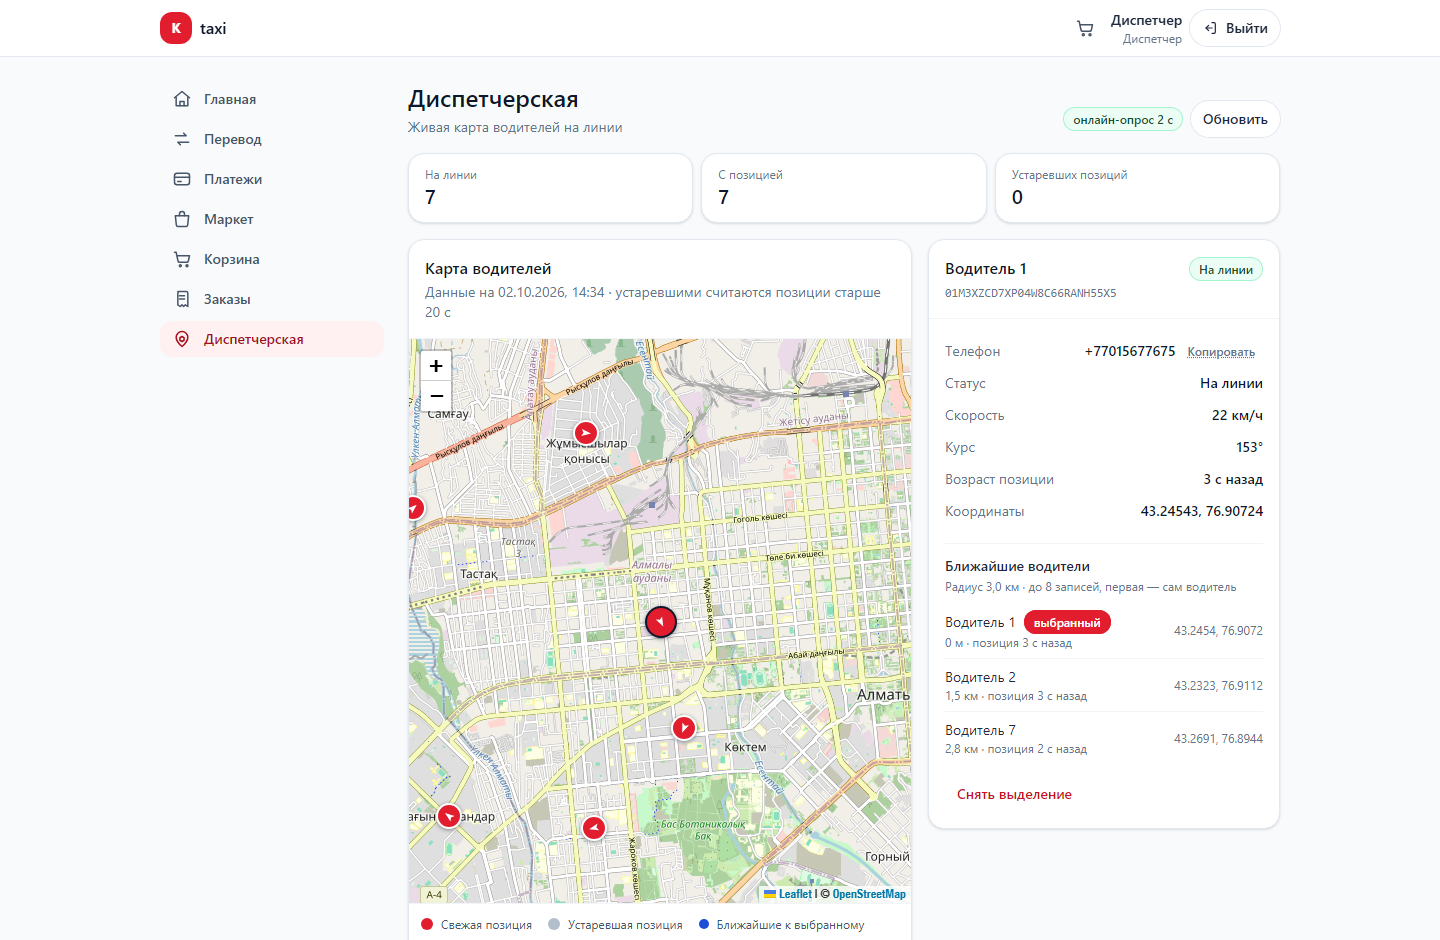
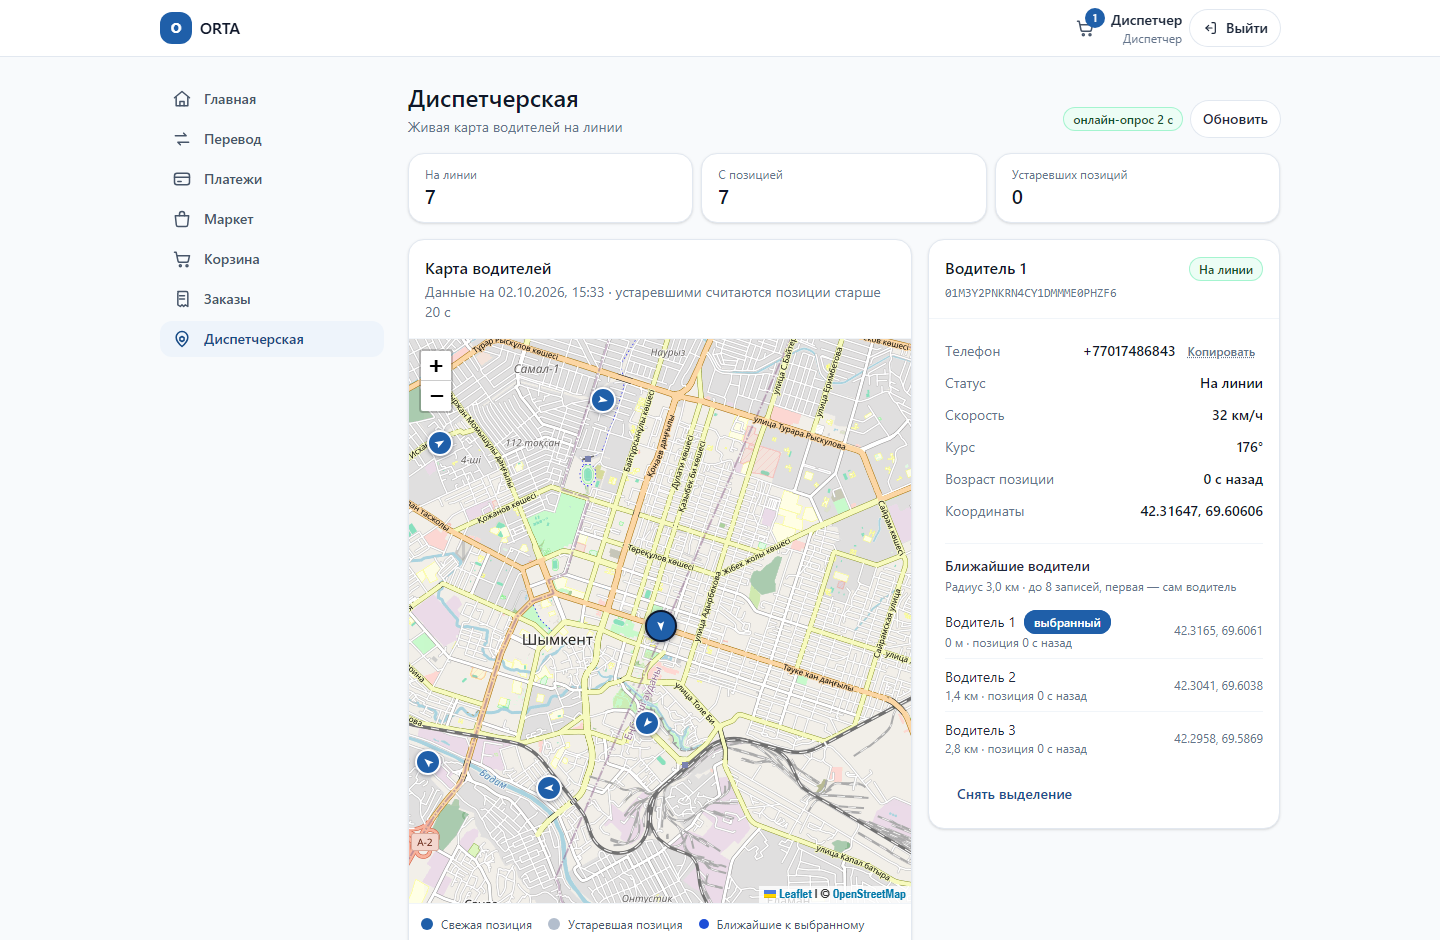
Один акцент и один пилотный город
Продукт должен выглядеть цельным, а не собранным из двух разных приложений:

- веб-палитра сведена к ORTA Blue #1F5FA9 (была малиновая #E11D2E): теперь цвет
  совпадает с темой Android-клиента, а красный остался только семантическим —
  ошибки, отмены, статусы FAILED/BLOCKED
- маркеры «ближайшие к выбранному» на карте диспетчера стали бирюзовыми (TaxiTeal):
  раньше они были почти того же синего, что и свежие, и на подложке путались
- пилотный город — Шымкент, как в описании продукта: центр карты консоли 42.3155,
  69.5867, симулятор парка возит 7 машин по Шымкенту, проверочная точка сценария —
  42.3600, 69.6500. Маркетплейс остался алматинским: это отдельная вертикаль
- в скриптах восстановлен BOM: правки через редактор его снимали, и PowerShell 5.1
  перестал разбирать кириллицу — симулятор падал с ошибкой парсинга

Проверено: web — сборка и 21 тест зелёные; e2e-dispatch — exit 0, событие driver.online
доходит до диспетчерской за 487 мс (критерий Ф1 — меньше секунды); карта переснята на
живом стеке, docs/img/dispatch-live-map.png.

diff --git a/web/src/pages/DispatchPage.tsx b/web/src/pages/DispatchPage.tsx
@@ -42,16 +42,16 @@ import {
 const PAGE_TITLE = 'Диспетчерская';
 const PAGE_SUBTITLE = 'Живая карта водителей на линии';
 
-/** Almaty, Abay avenue area — the demo city centre. */
-const ALMATY_CENTER: L.LatLngTuple = [43.2389, 76.8897];
+/** Шымкент, центр города — пилотный город ORTA (см. docs/orta.md). */
+const CITY_CENTER: L.LatLngTuple = [42.3155, 69.5867];
 const DEFAULT_ZOOM = 13;
 
 const OSM_TILE_URL = 'https://{s}.tile.openstreetmap.org/{z}/{x}/{y}.png';
 const OSM_ATTRIBUTION = '&copy; <a href="https://www.openstreetmap.org/copyright">OpenStreetMap</a>';
 
-const FRESH_COLOR = '#e11d2e'; // brand-500
+const FRESH_COLOR = '#1f5fa9'; // brand-500: тот же синий, что в клиенте ORTA
 const STALE_COLOR = '#94a3b8'; // ink-400
-const CANDIDATE_COLOR = '#2563eb'; // info blue
+const CANDIDATE_COLOR = '#0e7c7b'; // TaxiTeal: «ближайшие к выбранному» не путать со свежими (brand blue)
 const SELECTED_RING = '#0f172a'; // ink-900
 const MARKER_SIZE = 26;
 const CANDIDATE_SIZE = 14;
@@ -147,7 +147,7 @@ function DriverMap({ drivers, candidates, selectedId, onSelect }: DriverMapProps
       return;
     }
     const map = L.map(container, {
-      center: ALMATY_CENTER,
+      center: CITY_CENTER,
       zoom: DEFAULT_ZOOM,
       zoomControl: true,
       attributionControl: true,

diff --git a/web/src/index.css b/web/src/index.css
@@ -1,22 +1,22 @@
 @import 'tailwindcss';
 
 /**
- * Design tokens for the fintech UI: a light surface, one crimson accent close
- * to Taxi branding, generous rounding and a small neutral ramp.
+ * Design tokens for the ORTA UI: a light surface, one brand blue that matches the
+ * Android client (`Theme.kt`, #1F5FA9), generous rounding and a small neutral ramp.
  */
 @theme {
   --font-sans: 'Inter', 'Segoe UI', system-ui, -apple-system, sans-serif;
 
-  --color-brand-50: #fff1f2;
-  --color-brand-100: #ffe1e3;
-  --color-brand-200: #ffc7cc;
-  --color-brand-300: #ff9ba4;
-  --color-brand-400: #fb6572;
-  --color-brand-500: #e11d2e;
-  --color-brand-600: #c8121f;
-  --color-brand-700: #a70f1a;
-  --color-brand-800: #88121a;
-  --color-brand-900: #6f141a;
+  --color-brand-50: #eef4fb;
+  --color-brand-100: #d9e7f6;
+  --color-brand-200: #b8d1ee;
+  --color-brand-300: #8cb4e2;
+  --color-brand-400: #4d8ac9;
+  --color-brand-500: #1f5fa9;
+  --color-brand-600: #1a4f8d;
+  --color-brand-700: #164a85;
+  --color-brand-800: #123a68;
+  --color-brand-900: #0f2f53;
 
   --color-ink-50: #f8fafc;
   --color-ink-100: #f1f5f9;

diff --git a/web/src/pages/DispatchPage.test.tsx b/web/src/pages/DispatchPage.test.tsx
@@ -195,11 +195,11 @@ describe('dispatcher console', () => {
     expect(await screen.findByTestId('dispatch-map')).toBeInTheDocument();
     await waitFor(() => expect(container.querySelectorAll('.taxi-driver-marker')).toHaveLength(2));
 
-    // Fresh and stale drivers are visually different: brand red vs grey.
+    // Fresh and stale drivers are visually different: brand blue vs grey.
     const markers = Array.from(container.querySelectorAll<HTMLElement>('.taxi-driver-marker'));
     const bodies = markers.map((marker) => marker.innerHTML);
     expect(new Set(bodies).size).toBe(2);
-    expect(bodies.some((html) => html.includes('#e11d2e'))).toBe(true);
+    expect(bodies.some((html) => html.includes('#1f5fa9'))).toBe(true);
     expect(bodies.some((html) => html.includes('#94a3b8'))).toBe(true);
 
     const freshMarker = markers.find((marker) => marker.getAttribute('title') === 'Айбек Сериков');

diff --git a/README.md b/README.md
@@ -54,7 +54,7 @@ Cargo/Home/Services/Build/Delivery/Business помечены бейджем «С
 | PostGIS и базы `taxi_trip`, `taxi_driver`, `taxi_dispatch` | `infra/postgres/init/01-databases.sql` |
 | `driver-service`: профиль водителя, документы со сроком, выход на линию | `services/driver-service` |
 | `dispatch-service`: приём геопозиций, Redis GEO, поиск кандидатов, живая карта (`/dispatch`) | `services/dispatch-service` |
-| Симулятор парка: 7 машин едут по Алматы и присылают позиции | `scripts/simulate-fleet.ps1` |
+| Симулятор парка: 7 машин едут по Шымкенту и присылают позиции | `scripts/simulate-fleet.ps1` |
 | Сквозные сценарии: выход на линию (33 проверки) и диспетчерская (40 проверок) | `scripts/e2e-driver-duty.ps1`, `scripts/e2e-dispatch.ps1` |
 
 ### Живая карта диспетчера
@@ -107,7 +107,7 @@ cd web; pnpm install; pnpm dev                  # http://localhost:5173/dispatch
 .\scripts\smoke-test.ps1        # платформа: счёт, леджер, Kafka, RFC 7807
 .\scripts\e2e-driver-duty.ps1   # такси: водитель с документами выходит на линию
 .\scripts\e2e-dispatch.ps1      # такси: позиция доходит до карты и до поиска кандидатов
-.\scripts\simulate-fleet.ps1    # такси: парк машин едет по Алматы (для карты)
+.\scripts\simulate-fleet.ps1    # такси: парк машин едет по Шымкенту (для карты)
 .\scripts\e2e-marketplace.ps1   # (заморожено) покупка: витрина -> корзина -> PAID
 .\scripts\e2e-settlement.ps1    # (заморожено) продавец -> продажа -> выплата
 .\scripts\dev-down.ps1          # остановить сервисы (-WithInfra — ещё и контейнеры)

diff --git a/docs/taxi-roadmap.md b/docs/taxi-roadmap.md
@@ -81,7 +81,7 @@
 | 3 | Провайдер маршрутов | OSRM (self-hosted) для dev/тестов и абстракция `RoutingClient`; в прод — Yandex/Google | В тестах не должно быть внешних зависимостей; **лицензия на отображение маршрутов** — отдельное юридическое решение |
 | 4 | Real-time | WebSocket-ручка в существующем WebFlux-шлюзе (`/ws/rider`, `/ws/driver`) + Redis Pub/Sub для fan-out | Не плодим сервис; шлюз уже реактивный, JWT-валидация на хендшейке переиспользуется |
 | 5 | Push | FCM (+ HMS для Huawei) для офферов | Оффер обязан приходить на заблокированный экран, иначе водители пропускают заказы |
-| 6 | Города и тарифы | Один город (Алматы), 2 класса (эконом, комфорт) | Мультигород и мультикласс — это данные, а не архитектура; расширяется без переделок |
+| 6 | Города и тарифы | Один город (Шымкент — пилотный город ORTA), 2 класса (эконом, комфорт) | Мультигород и мультикласс — это данные, а не архитектура; расширяется без переделок |
 | 7 | Фискализация | Вне кода, но влияет на модель чека: ОФД/ККМ (например, Webkassa) | Чек в такси в РК обязателен; лучше заложить `receipt` как отдельную сущность сразу |
 | 8 | Судьба `catalog`/`order` | Заморозить, не удалять | Регресс не нужен, а вертикаль уже проверена e2e |
 
